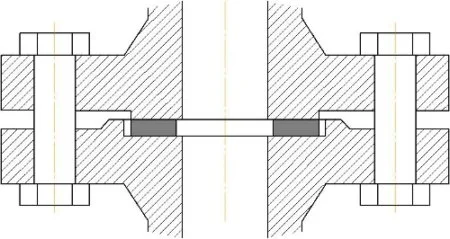
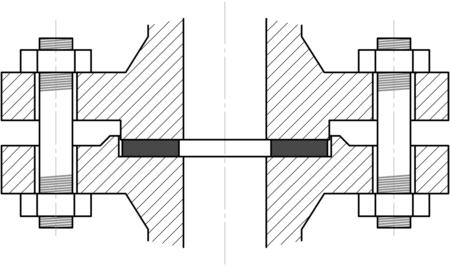
added new drawing

Changed region(s): [[0.0, 0.0, 1.0, 0.9958]]

diff --git a/src/pages/Gasket/Putg/components/Result/Result.tsx b/src/pages/Gasket/Putg/components/Result/Result.tsx
@@ -207,16 +207,18 @@ export const Result: FC<Props> = () => {
 					return `Прокладка ПУТГ-${main.flangeType?.code}-${material.putgType?.code}-${material.construction?.code}-${sizes}-${h}${coating}${jumper}${materials} ${designationDesign} ${main.standard?.standard.title}`
 				}
 			} else {
-				let flange = ''
+				let standard = ''
 				//  = ASME B 16.21 && != ASME B 16.5
 				if (
 					main.standard?.standard.id == '2f4150f0-9ab7-409a-815e-6bcc60cb5d86' &&
 					main.standard.flangeStandard.id != '7d832d51-7645-4394-94dc-261959d9e374'
 				) {
-					flange = `${main.standard.flangeStandard.title} `
+					standard = main.standard.flangeStandard.title
+				} else {
+					standard = main.standard?.standard.title || ''
 				}
 
-				return `Прокладка ПУТГ-${main.flangeType?.code}-${material.putgType?.code}-${material.construction?.code}-${dn}-${pn}-${h}${coating}${jumper}${materials} ${designationDesign}(${sizes}, ${flange}${main.standard?.standard.title}) ТУ 5728-006-93978201-2008`
+				return `Прокладка ПУТГ-${main.flangeType?.code}-${material.putgType?.code}-${material.construction?.code}-${dn}-${pn}-${h}${coating}${jumper}${materials} ${designationDesign}(${sizes}, ${standard}) ТУ 5728-006-93978201-2008`
 			}
 			// //* ГОСТ 15180-86
 			// if (main.standard?.standard.id == '79ef2110-5c48-4b43-be3e-816be1459fb7') {

diff --git a/src/pages/Gasket/Putg/components/Main/Main.tsx b/src/pages/Gasket/Putg/components/Main/Main.tsx
@@ -122,10 +122,10 @@ export const Main: FC<Props> = () => {
 								size='small'
 								sx={{ borderRadius: '12px' }}
 							>
-								<MenuItem disabled value='not_selected'>
+								{/* <MenuItem disabled value='not_selected'>
 									Выберите стандарт
-								</MenuItem>
-								<MenuItem disabled>
+								</MenuItem> */}
+								<MenuItem disabled value='not_selected'>
 									<Typography
 										sx={{
 											display: 'flex',
@@ -149,10 +149,6 @@ export const Main: FC<Props> = () => {
 								</MenuItem>
 								{standards?.map(s => (
 									<MenuItem key={s.id} value={s.id}>
-										{/* <Stack direction={'row'} spacing={1}>
-											<Typography sx={{ flexBasis: '50%' }}>{s.standard.title}</Typography>
-											<Typography>{s.flangeStandard.title}</Typography>
-										</Stack> */}
 										<Typography
 											sx={{
 												display: 'flex',
@@ -162,7 +158,11 @@ export const Main: FC<Props> = () => {
 												gap: '2%',
 											}}
 										>
-											<Typography variant='body1' component='span' sx={{ flexBasis: '54%' }}>
+											<Typography
+												variant='body1'
+												component='span'
+												sx={{ flexBasis: '54%', overflow: 'hidden', textOverflow: 'ellipsis' }}
+											>
 												{s.standard.title}
 											</Typography>
 											<Typography

diff --git a/src/pages/Gasket/Snp/components/Main/Main.tsx b/src/pages/Gasket/Snp/components/Main/Main.tsx
@@ -17,13 +17,21 @@ import { MainSkeleton } from '@/pages/Gasket/Skeletons/MainSkeleton'
 import FlangeA from '@/assets/snp/A.webp'
 import FlangeB from '@/assets/snp/B.webp'
 import FlangeV from '@/assets/snp/V.webp'
+import FlangeG from '@/assets/snp/G.webp'
+import FlangeD from '@/assets/snp/D.webp'
 
 const images = {
+	// А: FlangeA,
+	// Б: FlangeB,
+	// В: FlangeV,
+	// 'В (STG)': FlangeV,
+	// 'В (LTG)': FlangeV,
 	А: FlangeA,
-	Б: FlangeB,
-	В: FlangeV,
-	'В (STG)': FlangeV,
-	'В (LTG)': FlangeV,
+	'Б-А': FlangeB,
+	'Б-Б': FlangeB,
+	'Б-В': FlangeV,
+	Г: FlangeG,
+	Д: FlangeD,
 }
 
 type Props = {}
@@ -206,11 +214,17 @@ export const Main: FC<Props> = () => {
 			) : null}
 			<Column>
 				<Typography fontWeight='bold'>Чертеж фланца с прокладкой</Typography>
-				{main.flangeTypeCode == 'not_selected' ? (
+				{main.snpType?.title == 'not_selected' ? (
 					<Skeleton animation='wave' variant='rounded' width={'100%'} height={222} />
 				) : (
 					<Image
-						src={images[main.flangeTypeCode as 'А']}
+						src={
+							images[
+								`${main.flangeTypeCode == 'Б' ? main.flangeTypeCode + '-' : ''}${
+									main.snpType?.title
+								}` as 'А'
+							]
+						}
 						alt='flange drawing'
 						maxWidth={'450px'}
 						width={450}

diff --git a/src/pages/Gasket/Snp/components/Result/Result.tsx b/src/pages/Gasket/Snp/components/Result/Result.tsx
@@ -449,7 +449,7 @@ export const Result: FC<Props> = () => {
 				flange = `${main.snpStandard.flangeStandard.title} `
 			}
 
-			return `Gasket SWG-${main.snpType?.code}-${size.dn}-${size.pn.mpa}${ir}${fr}${materials.filler.code}${or} ${designationDesign}${flange}${main.snpStandard.standard.title}`
+			return `Прокладка СНП-${main.snpType?.code}-${size.dn}-${size.pn.mpa}${ir}${fr}${materials.filler.code}${or} ${designationDesign}${flange}${main.snpStandard.standard.title}`
 		}
 		if (main.snpStandard?.standard.title === 'EN 12560-2') {
 			let fr = ''
